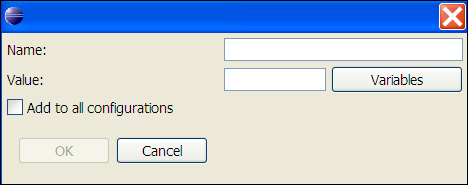
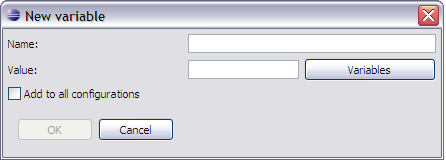
Bug 312167 - Revised Environment and Discover Options property panels

diff --git a/all/org.eclipse.cdt.doc.user/reference/cdt_u_prop_build_discovery.htm b/all/org.eclipse.cdt.doc.user/reference/cdt_u_prop_build_discovery.htm
@@ -8,30 +8,31 @@
 </head>
 <body>
 
-<h1>Discovery options preferences </h1>
-<br>
-<p style="margin-top: 0">Controls how to discover information required to build your project, enhance search and Content Assist functionality, and automatically enhance your makefile, such as include paths and symbol definitions.</p>
-<p style="margin-top: 0"><img src="../images/mpref_discovopts.png" width="801" height="676" alt="Discovery options preference page"></p>
+<h1>Discovery Options properties </h1>
+<p>Use the <strong>Discovery Options</strong> properties panel to control how information required to build your project is discovered, enhance search and Content Assist functionality, and automatically enhance your makefile, such as include paths and symbol definitions.</p>
+<p><img src="../images/mpref_discovopts.png" alt="Discovery options preference page"></p>
 
-<table cellpadding="5" cellspacing="0" border="1" >
-	<br>
-		<caption><strong>Discovery options preferences</strong></caption>
-	<br>	
+<table cellpadding="5" cellspacing="0" border="1" width="700px" bordercolor="#DDDDDD" >
+	<caption><strong>Discovery Options preferences</strong></caption>	
 	<colgroup>
 		<col width="30%" valign="top" >
 		<col width="70%" valign="top" >
 	</colgroup>
 	<tbody> 
-		<tr>
-			<td><strong>Configuration</strong></td>
+		<tr align="center">
+			<td><strong>Group</strong></td>
+			<td><strong>Description</strong></td>
+		</tr>
+		<tr valign="top" >
+			<td valign="top" ><strong>Configuration</strong></td>
 			<td><a href="cdt_u_prop_all.htm">Click here for a description.</a></td>
 		</tr>
-		<tr>
-			<td><strong>Manage configurations</strong></td>
+		<tr valign="top" >
+			<td valign="top" ><strong>Manage Configurations...</strong></td>
 			<td><a href="cdt_u_prop_all.htm">Click here for a description.</a></td>
 		</tr>
-		<tr>
-			<td><strong>Discovery Profiles Scope</strong></td>
+		<tr valign="top" >
+			<td valign="top" ><strong>Discovery Profiles Scope</strong></td>
 			<td>Specifies the type of profile to set for discovery:
 			  <ul>
 			    <li><strong>Per Language</strong> - Enables the association of different profiles with different resource types (different tools and input types), to have different settings discovered, e.g. for C and C++ source files and for different tools used by the project.
@@ -44,51 +45,57 @@ the entire project (configuration). This means that both the project and per-fil
 			
 			</td>
 		</tr>
-		<tr>
-			<td>Left pane list (language specific)</td>
+		<tr valign="top" >
+			<td valign="top" ><strong>Tools</strong> (language specific list)</td>
 			<td>Shows a list of language specific compilers. Select a language from the list.</td>
 		</tr>
-		<tr>
+		<tr valign="top" >
+			<td colspan="2" ><strong>Automated discovery of paths and symbols</strong></td>
+		</tr>
+		<tr valign="top" >
 			<td><strong>Automate discovery of paths and symbols</strong></td>
 			<td>Scans the build output to populate the path and symbol tables, such as symbol definitions, system include directories, local include directories, macros, and include files.</td>
 		</tr>
-				<tr>
+		<tr valign="top" >
 			<td><strong>Report path detection problems</strong></td>
 			<td>Sets the notification of diagnostic errors for include paths that the Eclipse CDT is unable to resolve as it parses the build output.</td>
 		</tr>
-		<tr>
+		<tr valign="top" >
 			<td><strong>Discovery profile</strong></td>
 			<td>Indicates the discovery profile to use for paths and symbol detection. The type of <strong>Configuration</strong> and <strong>Discovery Profile Scope</strong> you specify determine what which <strong>Discovery Profile</strong> options display on this tab.</td>
 		</tr>		
-		<tr>
+		<tr valign="top" >
+			<td colspan="2" ><strong>Discovery profile options</strong></td>
+		</tr>
+		<tr valign="top" >
 			<td><strong>Enable build output scanner info discovery</strong></td>
 			<td>Configures the scanner to parse the output from a build for compiler commands with options that specify the definition of preprocessor symbols, and include search paths (for GCC compiler, -D and -I respectively). This button is only visible when <strong>Configuration</strong> is set to Release and the <strong>Discovery Profiles Scope</strong> is set to <strong>Configuration-wide</strong>.</td>
 		</tr>
-		<tr>
+		<tr valign="top" >
+			<td><strong>Load build output from file</strong></td>
+			<td>Specifies the name of the file you selected to load the build output from. </td>
+		</tr>
+		<tr valign="top" >
 			<td><strong>Load</strong></td>
 			<td>Lets you load a file to discover paths and symbols based on a previous builds' output. To activate the discovery select a build log file and then the <strong>Load</strong> button. This button is only visible when <strong>Configuration</strong> is set to Release and the <strong>Discovery Profiles Scope</strong> is set to <strong>Configuration-wide</strong>.
 			<p><strong>Note:</strong> Click <strong>Variables</strong> to open the Select Variables window to define a build output file.</p>
 			</td>
 		</tr>
-		<tr>
-			<td><strong>Load build output from file</strong></td>
-			<td>Specifies the name of the file you selected to load the build output from. This button is only visible when <strong>Configuration</strong> is set to Release and the <strong>Discovery Profiles Scope</strong> is set to <strong>Configuration-wide</strong>.</td>
-		</tr>
-		<tr>
-			<td><strong>Browse</strong></td>
+		<tr valign="top" >
+			<td><strong>Browse...</strong></td>
 			<td>Click to locate a previously built output file to load the build output from. This button is only visible when <strong>Configuration</strong> is set to Release and the <strong>Discovery Profiles Scope</strong> is set to <strong>Configuration-wide</strong>.</td>
 		</tr>
-		<tr>
-			<td><strong>Variables</strong></td>
+		<tr valign="top" >
+			<td><strong>Variables...</strong></td>
 			<td>Click to specify an argument for, or create and configure simple launch variables which you can reference in launch configurations that support variables. This button is only visible when <strong>Configuration</strong> is set to Release and the <strong>Discovery Profiles Scope</strong> is set to <strong>Configuration-wide</strong>.</td>
 		</tr>
-		<tr>
+		<tr valign="top" >
 			<td><strong>Enable generate scanner info command</strong></td>
 			<td>Enables the retrieval of information from the scanner. If it is not selected, the includes will be populated with default gcc system includes; Eclipse gathers the compiler settings based on the specified toolchain. This means that the Eclipse CDT can obtain the default gcc system includes to associate with the project. 
 				<p>When selected, you can specify any required compiler specific commands in the <strong>Compiler invocation command</strong> field.</p>
 			</td>
 		</tr>
-		<tr>
+		<tr valign="top" >
 			<td><strong>Compiler invocation command</strong></td>
 			<td>Indicates the compiler specific command used to invoke the compiler (such as <span class="typewriter">gcc</span>, or more complicated commands used to perform all necessary steps for compiling C/C++ source files into .o files, and linking the object files and libraries into an executable program. For example, the command <strong>gcc -E -P -v hello.c | hello.cpp</strong> reads a compiler's configuration file and prints out information that includes the compiler's internally defined preprocessor symbols and include search paths. The information is complementary to the scanner configuration discovered when the output is parsed (if you've enabled the <strong>Enable build output scanner info discovery</strong> option), and is added to the project's scanner configuration. You can click <strong>Browse</strong> to locate this command, if required.
 			
@@ -108,11 +115,15 @@ the entire project (configuration). This means that both the project and per-fil
         <li><samp>-iwithprefix <span style="font-style: italic;">dir</span></samp></li>
         <li><samp>-iwithprefixbefore <span style="font-style: italic;">dir</span></samp></li>
       </ul>
-			</td>
+	    </td>
 		</tr>
-			<tr>
-			<td><strong>Browse</strong></td>
+		<tr valign="top" >
+			<td><strong>Browse...</strong></td>
 			<td>Click to browse for a file to include in the compiler invocation command. This button is only visible when <strong>Configuration</strong> is set to Release and the <strong>Discovery Profiles Scope</strong> is set to <strong>Configuration-wide</strong>.</td>
+		</tr>
+		<tr valign="top" >
+			<td><strong>Compiler invocation arguments</strong></td>
+			<td>Enter additional arguments to send to the chosen compiler.</td>
 		</tr>
   </tbody>
 </table>
@@ -159,7 +170,7 @@ the entire project (configuration). This means that both the project and per-fil
 <li><a href="cdt_u_prop_rundebug.htm">C/C++ Project Properties, Run/Debug Settings page</a>
 </ul>
 </p>
-
+<hr />
 <p><img src="../images/ng00_04a.gif" ALT="QNX Copyright Statement" ></p>
 </body>
 </html>

diff --git a/all/org.eclipse.cdt.doc.user/reference/cdt_u_prop_build_environment.htm b/all/org.eclipse.cdt.doc.user/reference/cdt_u_prop_build_environment.htm
@@ -9,26 +9,28 @@
 
 <body>
 <h1>C/C++ Project Properties, Environment</h1>
-Customizes the build environment for all projects in the workspace; it lets you control the environment variables used by the build.
+Use the <strong>Environment</strong> property page to customize the build environment for all projects in the workspace; it lets you control the environment variables used by the build.
 <p><img img="" src="../images/prop_environment.png"
  alt="C/C++ Project Properties, Environment"></p>
 <p></p>
 
-<table cellpadding="5" cellspacing="0" border="1" >
-	<br>
-		<caption><strong>Environment preference options</strong></caption>
-	<br>	
+<table cellpadding="5" cellspacing="0" border="1" width="600px" bordercolor="#DDDDDD" >
+	<caption><strong>Environment preference options</strong></caption>
 	<colgroup>
 		<col width="30%" valign="top" >
 		<col width="70%" valign="top" >
 	</colgroup>
 	<tbody> 
+		<tr align="center">
+			<td><strong>Group</strong></td>
+			<td><strong>Description</strong></td>
+		</tr>
 		<tr>
 			<td><strong>Configuration</strong></td>
 			<td><a href="cdt_u_prop_all.htm">Click here for a description.</a></td>
 		</tr>
 		<tr>
-			<td><strong>Manage configurations</strong></td>
+			<td><strong>Manage Configurations...</strong></td>
 			<td><a href="cdt_u_prop_all.htm">Click here for a description.</a></td>
 		</tr>
 		<tr>
@@ -52,20 +54,20 @@ Customizes the build environment for all projects in the workspace; it lets you 
 			<td>Replaces the native environment with the specified variables, and then restores the native environment upon its completion.</td>
 		</tr>		
 		<tr>
-			<td><strong>New</strong></td>
-			<td>Opens a dialog to create a new environment variable and value. Custom environment variables that you create appear in bold within the list.
-			<p><img img="" src="../images/cdt_buildenv_newenvvar.png" alt="C/C++ Project Properties, Environment, New environment variable"></p>            <br>
+			<td><strong>Add...</strong></td>
+			<td>Opens the <strong>New variable</strong> dialog to create a new environment variable and value. Custom environment variables that you create appear in bold within the list.
+			<p><img img="" src="../images/cdt_buildenv_newenvvar.png" alt="C/C++ Project Properties, Environment, New environment variable"></p> 
             <p>Click <strong>Variables</strong> to Select variables by name to include in the value. Select <strong>Add to all configurations</strong> to make this new environment variable available to all configurations for the selected project; otherwise, the variable is only available for the currently selected configuration.</p>
 			</td>
 		</tr>
 		<tr>
-			<td><strong>Select</strong></td>
-			<td>Opens the Select variables dialog where you can choose from a list of system variables.
+			<td><strong>Select...</strong></td>
+			<td>Opens the <strong>Select variables</strong> dialog where you can choose from a list of system variables.
 			<p><img img="" src="../images/cdt_buildenv_selectvar.png" alt="C/C++ Project Properties, Environment, New environment variable"></p></td>
             </td>
 		</tr>
 		<tr>
-			<td><strong>Edit</strong></td>
+			<td><strong>Edit...</strong></td>
 			<td>Modifies the name and value of the selected environment variable.</td>
 		</tr>
 		<tr>
@@ -138,8 +140,8 @@ Customizes the build environment for all projects in the workspace; it lets you 
 <li><a href="cdt_u_prop_rundebug.htm">C/C++ Project Properties, Run/Debug Settings page</a>
 </ul>
 </p>
+<hr />
 <p><img src="../images/intl_07.gif" ALT="Intel Copyright Statement" ></p>
-
 
 </body>
 </html>
